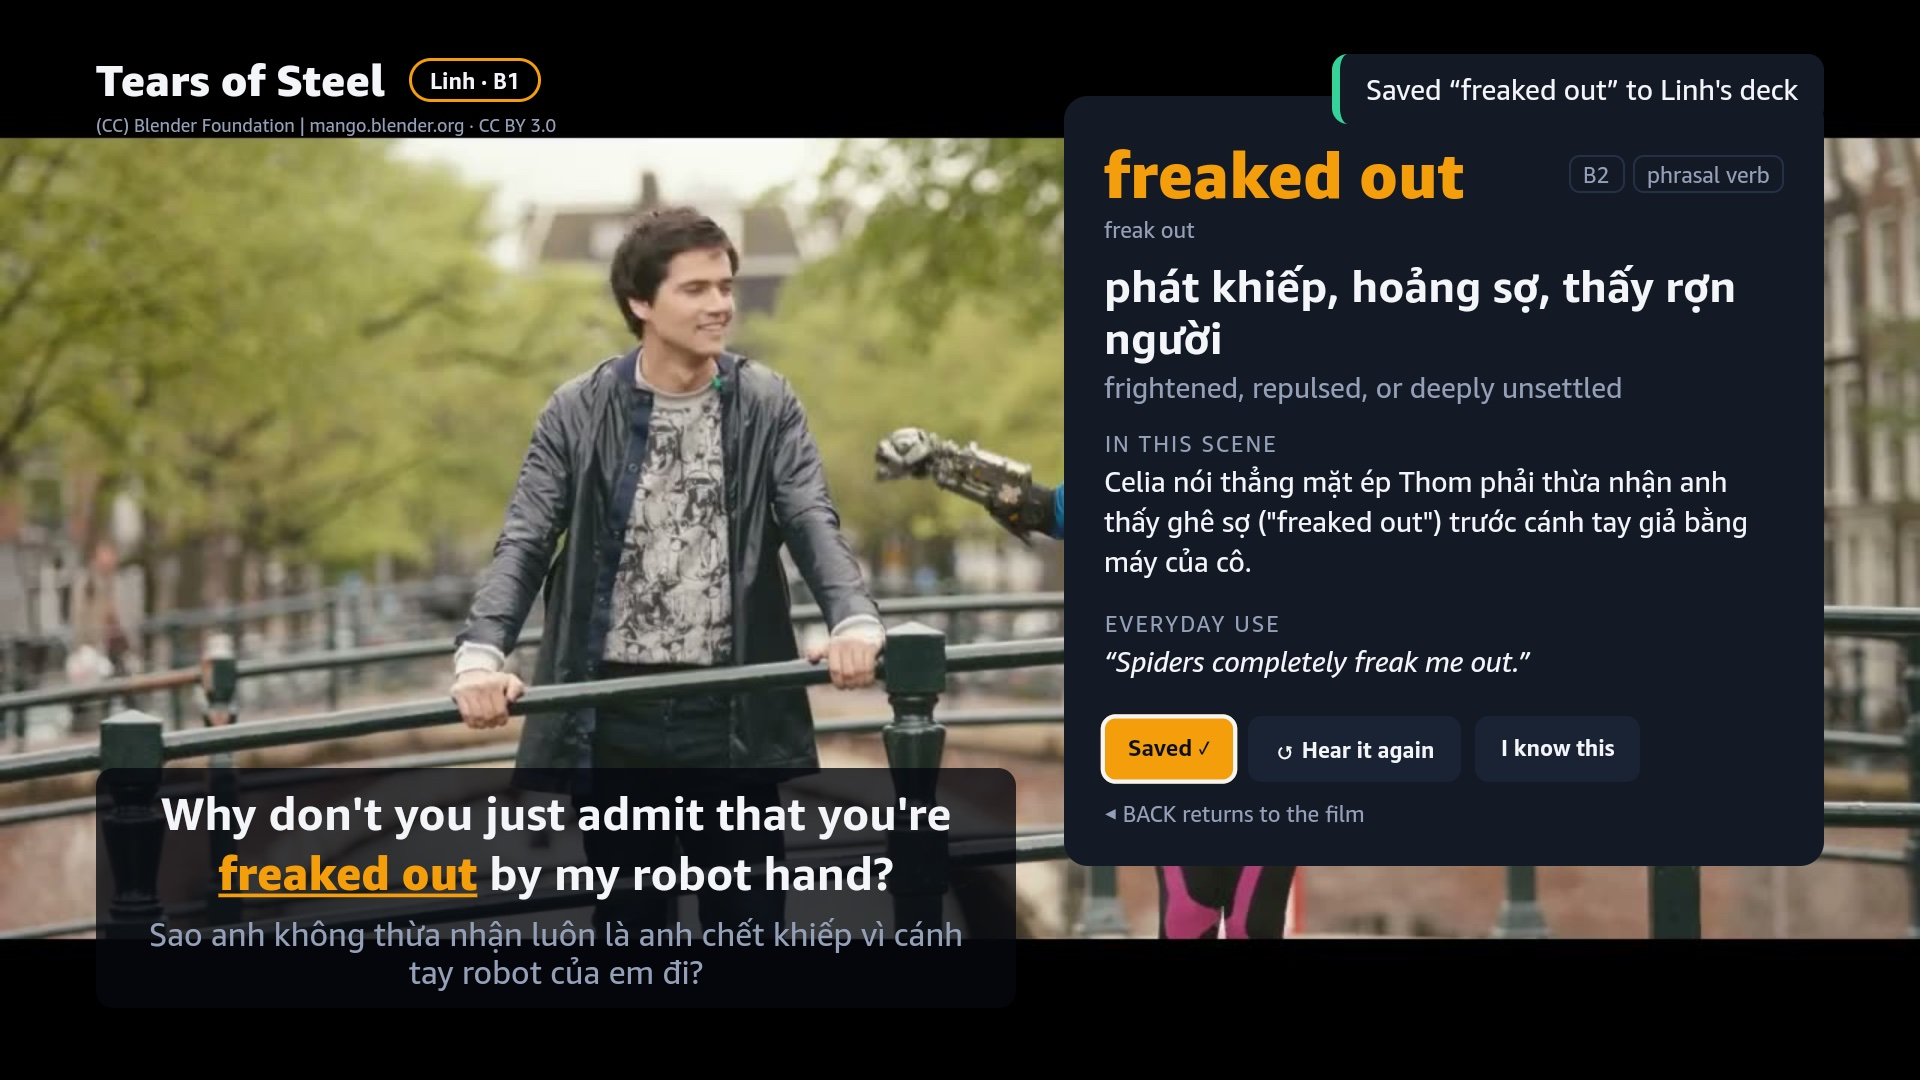
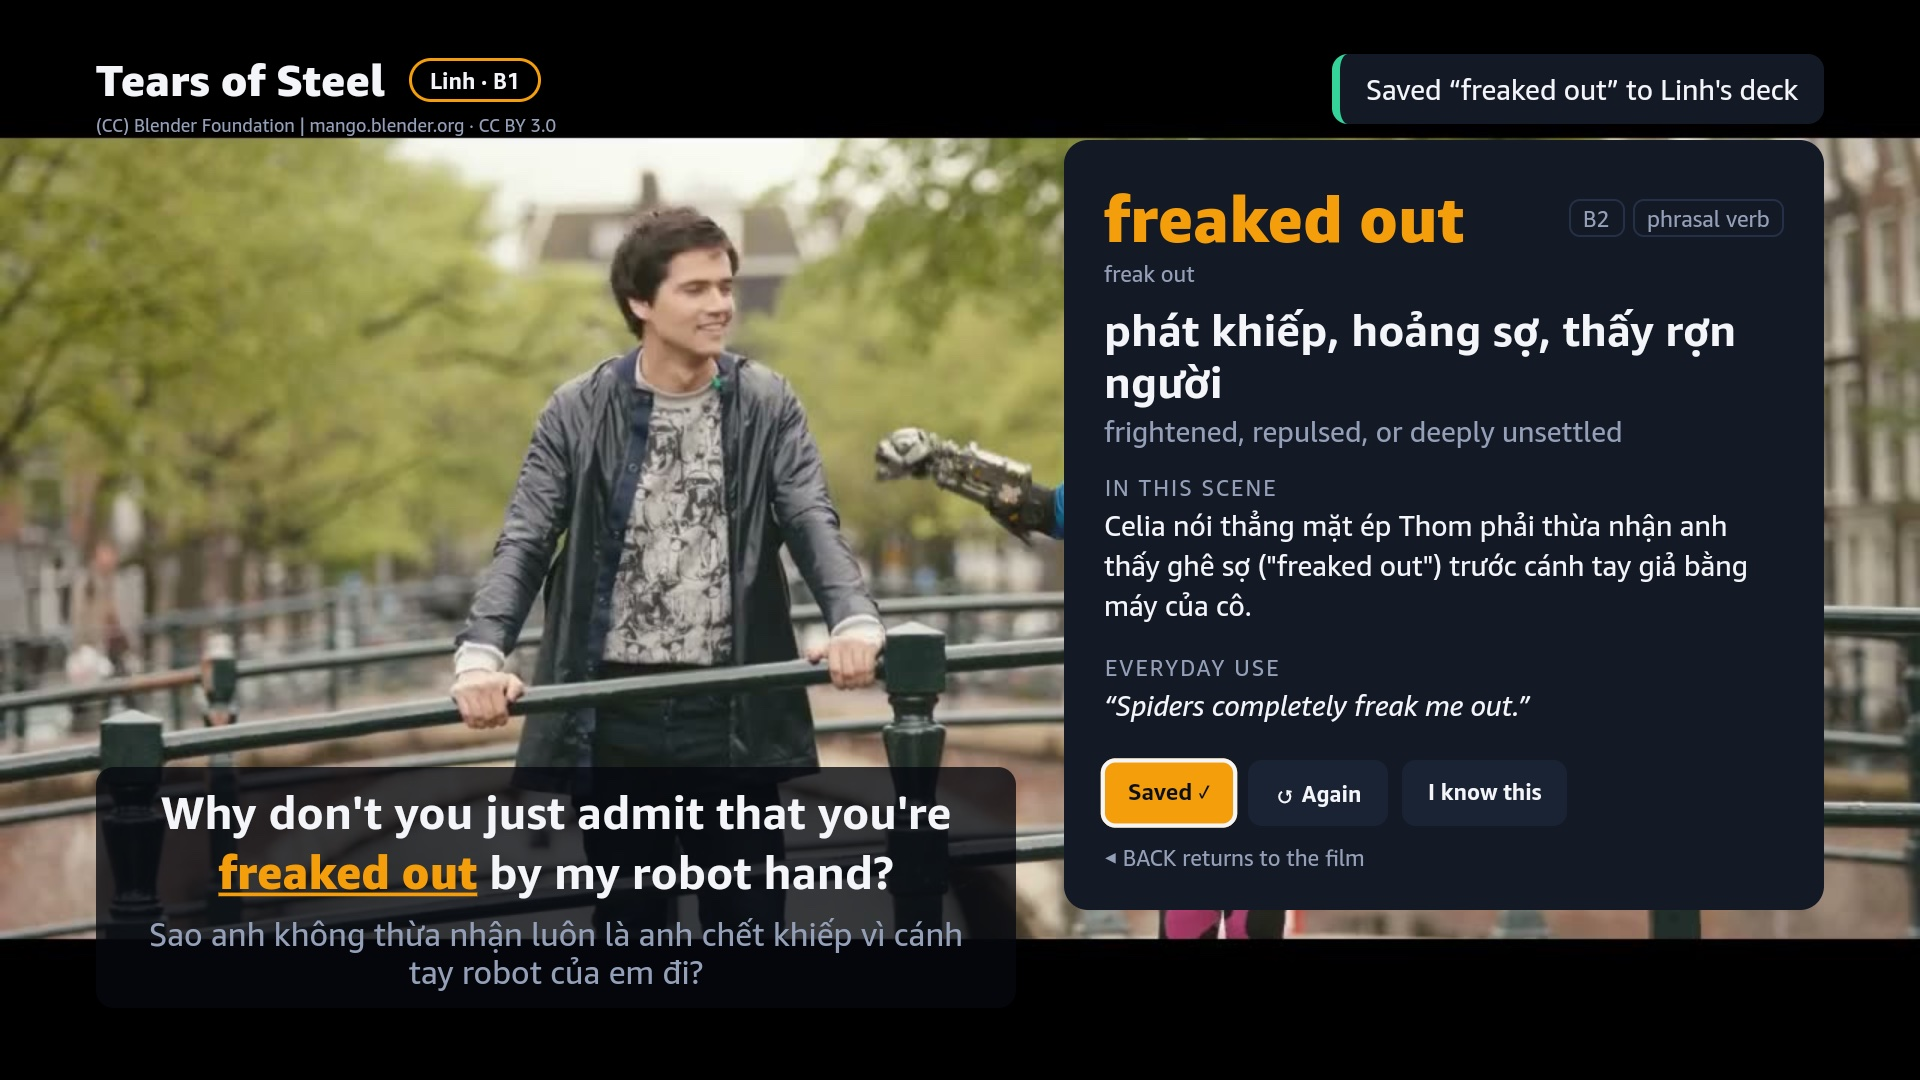
docs: recapture the gallery and add the phone companion
All TV shots are recaptured with the word card in its new place; gallery.mjs now also captures the Watch together shots. New: the TV and phone side by side for speaking and saving, and the phone's tabs.

diff --git a/README.md b/README.md
@@ -26,7 +26,15 @@ per language, and each word card saves to each person's own deck.
 |---|---|
 | ![One film, three levels: Stretch for Linh, Hard for Minh, Easy for Ana](docs/images/11-watch-together-home.jpg) | ![Subtitles for three viewers: coloured dots per person, Vietnamese and Spanish translations](docs/images/12-watch-together-subtitles.jpg) |
 
-<sub>Screenshots from the Vega Virtual Device (Vega SDK 0.24), captured by `scripts/gallery.mjs`.</sub>
+**Phone companion.** Scan the QR code on the TV — nothing to install. Say the line back and the TV shows your score;
+a word saved on the TV is on the phone a second later.
+
+| | |
+|---|---|
+| ![Say it back: the film pauses, the phone scores every word, and the TV shows "Linh said it: 88"](docs/images/14-say-it-back.jpg) | ![A word saved on the TV appears at the top of the phone's word list](docs/images/15-saved-to-phone.jpg) |
+
+<sub>Screenshots from the Vega Virtual Device (Vega SDK 0.24), captured by `scripts/gallery.mjs`; phone screens from
+`scripts/phone-sim.mjs`, which pairs a phone-sized Chrome with the TV.</sub>
 
 ---
 
@@ -65,6 +73,8 @@ pause button. Watching *with* the remote is the gap.
   members (typing on a phone beats typing with a remote).
 - **Daily Rerun.** Spaced repetition on the TV: the clip plays, you recall the meaning, reveal it, and grade yourself
   with the D-pad. Words you master stop being highlighted.
+
+![The phone companion: a remote and speaking practice, questions about any line, and the household](docs/images/16-phone-companion.jpg)
 
 ## How it is different
 
@@ -136,6 +146,8 @@ The TV app and the Vega Virtual Device: see [docs/run-on-vega.md](docs/run-on-ve
 Phones need HTTPS for the microphone. On a home network, start the server with `HTTPS=1 npm run dev`: it also serves
 on :8788 with a self-signed certificate for its LAN address, and the QR code on the TV points phones there (accept the
 warning once). For a trusted certificate, put the server behind any HTTPS tunnel and set `PUBLIC_URL` instead.
+No phone at hand: with `DEBUG_ROOMS=1`, `node scripts/phone-sim.mjs` opens a phone-sized Chrome window paired with
+the TV.
 
 Preparing a new title (needs `GEMINI_API_KEY` in `.env.local`, see `.env.example`):
 
@@ -144,7 +156,9 @@ npm run enrich -- tears-of-steel --langs vi,es,id,de,fr,it,nl,pl,pt-PT
 npm run eval -- tears-of-steel
 ```
 
-Tests: `npm test` (core, pipeline, server).
+Tests: `npm test` (core, pipeline, server, phone). On the Vega Virtual Device, `node scripts/smoke-vvd.mjs` and
+`node scripts/phone-sim.mjs --test` drive the real app with remote keys next to a phone (see
+[docs/run-on-vega.md](docs/run-on-vega.md)).
 
 ## Repository
 

diff --git a/docs/run-on-vega.md b/docs/run-on-vega.md
@@ -68,6 +68,18 @@ DEBUG_ROOMS=1 npm run dev                       # lets the test find the TV's ro
 node scripts/smoke-vvd.mjs                      # saves a word on the TV, expects it on the "phone"
 ```
 
+`scripts/phone-sim.mjs` is a phone for the pairing room: Google Chrome with a Pixel-sized screen, opened at the link
+the TV's QR code shows (it uses the Chrome installed on the machine through `playwright-core`).
+
+```bash
+node scripts/phone-sim.mjs                      # a phone window to use by hand (the Mac's microphone)
+node scripts/phone-sim.mjs --test               # TV and phone together: remote, speaking, words, questions
+node scripts/phone-sim.mjs --test --tv-shots    # with STILL_VIDEO=1: also capture the TV at each moment
+```
+
+In `--test`, speech recognition is replaced by a stand-in that says the line on screen with one word missing, so the
+score is repeatable; the scoring, the room messages and the TV's toast are the real ones.
+
 ## Remote
 
 | Key | Watching | Word mode | Card |
